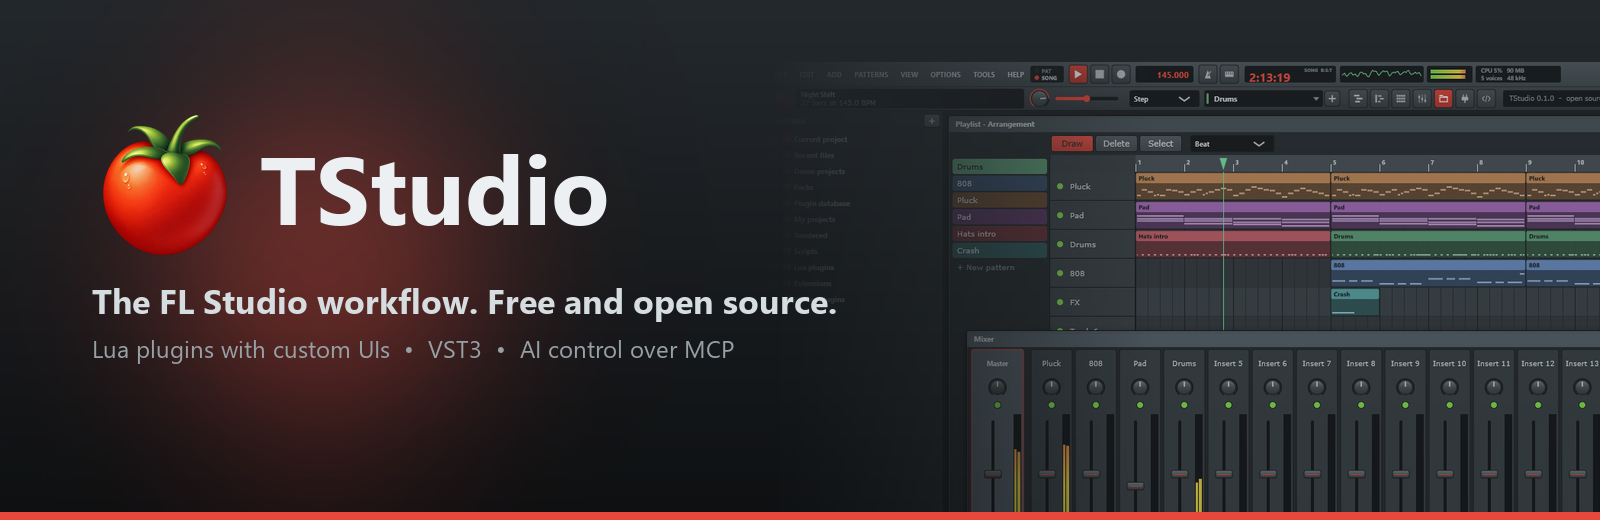
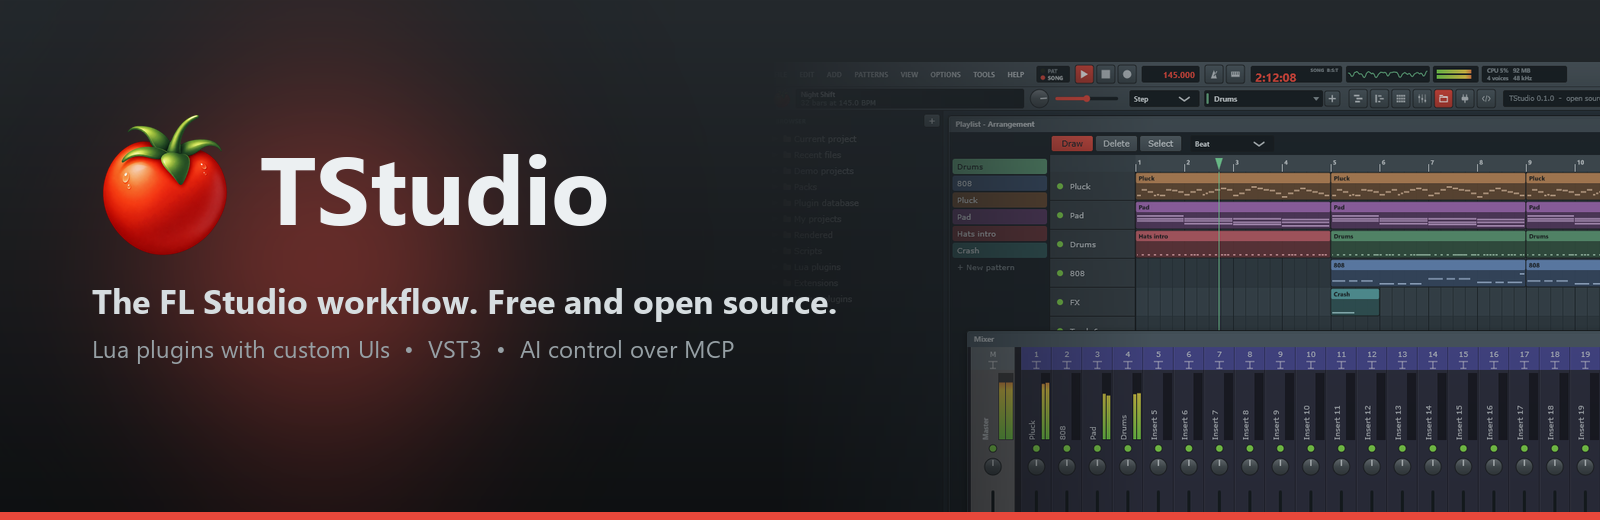
[ui] restyle mixer, channel rack and palette closer to FL Studio (#61)

Changed region(s): [[0.5938, 0.6462, 1.0, 0.9846], [0.625, 0.1231, 1.0, 0.1538], [0.75, 0.3077, 0.7812, 0.3385]]

diff --git a/Source/UI/Mixer.cpp b/Source/UI/Mixer.cpp
@@ -9,8 +9,8 @@ namespace ts
 {
 namespace
 {
-constexpr int stripWidth = 58;
-constexpr int masterWidth = 72;
+constexpr int stripWidth = 40;
+constexpr int masterWidth = 58;
 constexpr int slotsWidth = 230;
 constexpr int slotHeight = 24;
 constexpr double maxGain = 1.9;
@@ -74,42 +74,61 @@ public:
 
     void resized() override
     {
-        auto area = getLocalBounds().reduced(3, 2);
-        nameArea = area.removeFromTop(34);
+        auto area = getLocalBounds();
+        numberArea = area.removeFromTop(30);
+        area.reduce(2, 2);
+        auto top = area.removeFromTop(92);
+        meterArea = top.removeFromRight(index == 0 ? 20 : 12).reduced(0, 2);
+        nameArea = top;
+        ledArea = area.removeFromTop(18);
         pan.setBounds(area.removeFromTop(30).withSizeKeepingCentre(26, 26));
-        ledArea = area.removeFromTop(16);
-        numberArea = area.removeFromBottom(18);
-        routeArea = area.removeFromBottom(20);
-        meterArea = area.removeFromRight(12).reduced(1, 4);
-        fader.setBounds(area);
+        routeArea = area.removeFromBottom(22);
+        fader.setBounds(area.reduced(0, 4));
     }
 
     void paint(juce::Graphics& g) override
     {
         const auto& track = *studio.project.mixer[size_t(index)];
         const auto isSelected = mixer.selected == index;
-        g.setColour(isSelected ? theme::titleActive : (index == 0 ? theme::title : theme::panel));
-        g.fillRoundedRectangle(getLocalBounds().toFloat().reduced(1.0f), 3.0f);
-        g.setColour(isSelected ? theme::accent : theme::outline);
-        g.drawRoundedRectangle(getLocalBounds().toFloat().reduced(1.0f), 3.0f, 1.0f);
+        const auto body = index == 0 ? theme::mixerStrip.withSaturation(0.05f) : theme::mixerStrip;
+        g.setColour(isSelected ? body.brighter(0.35f) : body);
+        g.fillRect(getLocalBounds());
+        const auto header = index == 0 ? theme::title : theme::mixerHeader;
+        g.setColour(isSelected ? header.brighter(0.3f) : header);
+        g.fillRect(numberArea);
+        g.setColour(juce::Colours::black.withAlpha(0.35f));
+        g.drawVerticalLine(getWidth() - 1, 0.0f, float(getHeight()));
+        g.setColour(juce::Colours::white.withAlpha(0.06f));
+        g.drawVerticalLine(0, 0.0f, float(getHeight()));
 
-        g.setColour(theme::text);
-        g.setFont(theme::font(11.5f, index == 0 ? juce::Font::bold : juce::Font::plain));
-        g.drawFittedText(track.name, nameArea, juce::Justification::centred, 2);
+        g.setColour(theme::text.withAlpha(0.9f));
+        g.setFont(theme::font(12.0f));
+        g.drawText(index == 0 ? juce::String("M") : juce::String(index), numberArea.withTrimmedTop(2).removeFromTop(14), juce::Justification::centred);
+        g.setColour(juce::Colours::white.withAlpha(0.55f));
+        const auto icon = numberArea.withTrimmedTop(17).toFloat().withSizeKeepingCentre(12.0f, 9.0f);
+        g.drawLine(icon.getCentreX(), icon.getY(), icon.getCentreX(), icon.getBottom(), 1.4f);
+        g.drawLine(icon.getX(), icon.getY(), icon.getRight(), icon.getY(), 1.4f);
+        g.drawLine(icon.getX() + 2.0f, icon.getBottom(), icon.getRight() - 2.0f, icon.getBottom(), 1.4f);
 
-        const auto light = ledArea.toFloat().withSizeKeepingCentre(9.0f, 9.0f);
+        {
+            juce::Graphics::ScopedSaveState state(g);
+            g.addTransform(juce::AffineTransform::rotation(-juce::MathConstants<float>::halfPi, nameArea.toFloat().getCentreX(), nameArea.toFloat().getCentreY()));
+            const auto rotated = nameArea.toFloat().withSizeKeepingCentre(float(nameArea.getHeight()), float(nameArea.getWidth()));
+            g.setColour(theme::text.withAlpha(0.85f));
+            g.setFont(theme::font(12.0f, index == 0 ? juce::Font::bold : juce::Font::plain));
+            g.drawText(track.name, rotated.reduced(2.0f, 0.0f), juce::Justification::centredLeft, true);
+        }
+
+        const auto light = ledArea.toFloat().withSizeKeepingCentre(10.0f, 10.0f);
         const auto solo = track.solo.load();
         g.setColour(solo ? theme::accent : (track.muted.load() ? theme::ledOff : theme::led));
         g.fillEllipse(light);
         g.setColour(theme::outline);
         g.drawEllipse(light, 1.0f);
 
-        g.setColour(theme::textDim);
-        g.setFont(theme::font(11.0f, juce::Font::bold));
-        g.drawText(index == 0 ? juce::String("M") : juce::String(index), numberArea, juce::Justification::centred);
         paintRoute(g);
 
-        g.setColour(theme::lcd);
+        g.setColour(juce::Colours::black.withAlpha(0.45f));
         g.fillRect(meterArea);
         const auto meter = [&](juce::Rectangle<int> bar, float level)
         {
@@ -316,7 +335,7 @@ public:
 
     void paint(juce::Graphics& g) override
     {
-        g.fillAll(theme::panelDark);
+        g.fillAll(theme::mixerStrip.darker(0.2f));
         g.setColour(theme::outline);
         g.drawVerticalLine(0, 0.0f, float(getHeight()));
         const auto& track = *studio.project.mixer[size_t(mixer.selected)];
@@ -544,7 +563,7 @@ Mixer::~Mixer()
 
 void Mixer::paint(juce::Graphics& g)
 {
-    g.fillAll(theme::workspace.brighter(0.05f));
+    g.fillAll(theme::mixerBack);
 }
 
 void Mixer::resized()
@@ -558,8 +577,8 @@ void Mixer::resized()
     for (int i = 0; i < strips.size(); ++i)
     {
         const auto width = i == 0 ? masterWidth : stripWidth;
-        strips[i]->setBounds(x, 2, width - 2, height - 4);
-        x += width + (i == 0 ? 6 : 0);
+        strips[i]->setBounds(x, 0, width, height);
+        x += width + (i == 0 ? 8 : 0);
     }
 }
 

diff --git a/Source/UI/ChannelRack.cpp b/Source/UI/ChannelRack.cpp
@@ -85,11 +85,11 @@ public:
         else
             paintPreview(g);
 
-        const auto light = selectArea.toFloat().withSizeKeepingCentre(8.0f, 14.0f);
-        g.setColour(selected ? theme::led : theme::ledOff);
-        g.fillRoundedRectangle(light, 2.0f);
-        g.setColour(theme::outline);
-        g.drawRoundedRectangle(light, 2.0f, 1.0f);
+        const auto light = selectArea.toFloat().withSizeKeepingCentre(5.0f, float(getHeight()) - 8.0f);
+        g.setColour(selected ? channel().colour.brighter(0.6f).withSaturation(0.45f) : theme::rackBox.darker(0.35f));
+        g.fillRoundedRectangle(light, 1.5f);
+        g.setColour(theme::outline.withAlpha(0.6f));
+        g.drawRoundedRectangle(light, 1.5f, 1.0f);
     }
 
     void mouseDown(const juce::MouseEvent& e) override
@@ -252,25 +252,28 @@ private:
     void paintInsert(juce::Graphics& g) const
     {
         const auto insert = channel().insert.load();
-        g.setColour(theme::lcd);
-        g.fillRoundedRectangle(insertArea.toFloat(), 2.0f);
-        g.setColour(insert == 0 ? theme::textDim : theme::accent);
-        g.setFont(theme::font(12.0f, juce::Font::bold));
+        g.setColour(theme::rackBox);
+        g.fillRoundedRectangle(insertArea.toFloat(), 3.0f);
+        g.setColour(theme::outline.withAlpha(0.7f));
+        g.drawRoundedRectangle(insertArea.toFloat().reduced(0.5f), 3.0f, 1.0f);
+        g.setColour(insert == 0 ? theme::textDim : theme::text.withAlpha(0.85f));
+        g.setFont(theme::font(14.0f));
         g.drawText(insert == 0 ? juce::String("--") : juce::String(insert), insertArea, juce::Justification::centred);
     }
 
     void paintName(juce::Graphics& g, bool selected) const
     {
-        auto box = nameArea.toFloat();
-        g.setGradientFill(juce::ColourGradient(theme::button.brighter(0.08f), box.getTopLeft(), theme::button.darker(0.1f), box.getBottomLeft(), false));
+        const auto box = nameArea.toFloat();
+        const auto fill = channel().colour.withSaturation(juce::jmin(channel().colour.getSaturation(), 0.42f)).withBrightness(0.5f).interpolatedWith(theme::button, 0.3f);
+        g.setGradientFill(juce::ColourGradient(fill.brighter(0.12f), box.getTopLeft(), fill.darker(0.18f), box.getBottomLeft(), false));
         g.fillRoundedRectangle(box, 3.0f);
-        g.setColour(channel().colour);
-        g.fillRect(box.removeFromLeft(4.0f).reduced(0.0f, 2.0f).translated(2.0f, 0.0f));
-        g.setColour(selected ? theme::accent : theme::outline);
-        g.drawRoundedRectangle(nameArea.toFloat().reduced(0.5f), 3.0f, 1.0f);
+        g.setColour(juce::Colours::white.withAlpha(0.12f));
+        g.drawHorizontalLine(int(box.getY()) + 1, box.getX() + 3.0f, box.getRight() - 3.0f);
+        g.setColour(selected ? theme::text : theme::outline);
+        g.drawRoundedRectangle(box.reduced(0.5f), 3.0f, selected ? 1.4f : 1.0f);
         g.setColour(channel().muted.load() ? theme::textDim : theme::text);
         g.setFont(theme::font(13.0f));
-        g.drawText(channel().name, nameArea.reduced(10, 0), juce::Justification::centredLeft, true);
+        g.drawText(channel().name, nameArea.reduced(8, 0), juce::Justification::centred, true);
     }
 
     void paintStep(juce::Graphics& g, int step) const
@@ -278,10 +281,17 @@ private:
         const auto box = stepBounds(step).toFloat();
         const auto on = isStepOn(step);
         const auto base = on ? theme::stepOn : ((step / 4) % 2 == 0 ? theme::stepA : theme::stepB);
-        g.setGradientFill(juce::ColourGradient(base.brighter(0.1f), box.getTopLeft(), base.darker(0.15f), box.getBottomLeft(), false));
-        g.fillRoundedRectangle(box, 2.0f);
+        g.setColour(theme::outline.withAlpha(0.55f));
+        g.fillRoundedRectangle(box.translated(0.0f, 1.0f), 3.0f);
+        g.setGradientFill(juce::ColourGradient(base.brighter(0.14f), box.getTopLeft(), base.darker(0.12f), box.getBottomLeft(), false));
+        g.fillRoundedRectangle(box, 3.0f);
+        const auto notch = box.withSizeKeepingCentre(box.getWidth() * 0.42f, 2.0f).withY(box.getY() + 4.0f);
+        g.setColour(base.darker(on ? 0.35f : 0.6f));
+        g.fillRect(notch);
+        g.setColour(base.brighter(0.35f).withAlpha(0.5f));
+        g.fillRect(notch.translated(0.0f, 2.0f).withHeight(1.0f));
         g.setColour(step == playhead ? theme::accent : theme::outline);
-        g.drawRoundedRectangle(box.reduced(0.5f), 2.0f, step == playhead ? 1.6f : 1.0f);
+        g.drawRoundedRectangle(box.reduced(0.5f), 3.0f, step == playhead ? 1.6f : 1.0f);
     }
 
     void paintPreview(juce::Graphics& g) const
@@ -454,7 +464,7 @@ int ChannelRack::preferredHeight() const
 
 void ChannelRack::paint(juce::Graphics& g)
 {
-    g.fillAll(theme::panel);
+    g.fillAll(theme::rack);
     auto header = getLocalBounds().removeFromTop(headerHeight).reduced(8, 0);
     header.removeFromLeft(30);
     g.setColour(theme::textDim);

diff --git a/Source/UI/LookAndFeel.cpp b/Source/UI/LookAndFeel.cpp
@@ -51,12 +51,15 @@ void LookAndFeel::drawRotarySlider(juce::Graphics& g, int x, int y, int width, i
     const auto origin = bipolar ? (startAngle + endAngle) * 0.5f : startAngle;
     const juce::PathStrokeType stroke(ring, juce::PathStrokeType::curved, juce::PathStrokeType::rounded);
 
-    juce::Path track;
-    track.addCentredArc(centre.x, centre.y, arcRadius, arcRadius, 0.0f, startAngle, endAngle, true);
-    g.setColour(theme::lcd);
-    g.strokePath(track, stroke);
+    if (!compact)
+    {
+        juce::Path track;
+        track.addCentredArc(centre.x, centre.y, arcRadius, arcRadius, 0.0f, startAngle, endAngle, true);
+        g.setColour(theme::lcd);
+        g.strokePath(track, stroke);
+    }
 
-    if (std::abs(angle - origin) > 0.01f)
+    if (!compact && std::abs(angle - origin) > 0.01f)
     {
         juce::Path value;
         value.addCentredArc(centre.x, centre.y, arcRadius, arcRadius, 0.0f, juce::jmin(origin, angle), juce::jmax(origin, angle), true);
@@ -69,7 +72,7 @@ void LookAndFeel::drawRotarySlider(juce::Graphics& g, int x, int y, int width, i
         g.strokePath(value, stroke);
     }
 
-    const auto bodyRadius = radius - ring - (compact ? 1.0f : radius * 0.07f);
+    const auto bodyRadius = compact ? radius - 1.0f : radius - ring - radius * 0.07f;
     const auto body = juce::Rectangle<float>(bodyRadius * 2.0f, bodyRadius * 2.0f).withCentre(centre);
     if (!compact)
     {
@@ -103,13 +106,18 @@ void LookAndFeel::drawLinearSlider(juce::Graphics& g, int x, int y, int width, i
     const auto track = bounds.withSizeKeepingCentre(4.0f, bounds.getHeight());
     g.setColour(theme::lcd);
     g.fillRoundedRectangle(track, 2.0f);
-    const auto handle = juce::Rectangle<float>(juce::jmin(bounds.getWidth(), 22.0f), 10.0f).withCentre({ bounds.getCentreX(), position });
-    g.setGradientFill(juce::ColourGradient(theme::knobTop.brighter(0.2f), handle.getTopLeft(), theme::knobBottom, handle.getBottomLeft(), false));
-    g.fillRoundedRectangle(handle, 2.0f);
+    const auto handle = juce::Rectangle<float>(juce::jmin(bounds.getWidth(), 20.0f), 16.0f).withCentre({ bounds.getCentreX(), position });
+    g.setColour(juce::Colours::black.withAlpha(0.4f));
+    g.fillRoundedRectangle(handle.translated(0.0f, 1.5f), 2.5f);
+    juce::ColourGradient metal(juce::Colour(0xffd3d9dc), handle.getTopLeft(), juce::Colour(0xff737c80), handle.getBottomLeft(), false);
+    metal.addColour(0.45, juce::Colour(0xffaeb6ba));
+    metal.addColour(0.55, juce::Colour(0xff8c9599));
+    g.setGradientFill(metal);
+    g.fillRoundedRectangle(handle, 2.5f);
     g.setColour(theme::outline);
-    g.drawRoundedRectangle(handle, 2.0f, 1.0f);
-    g.setColour(theme::accent);
-    g.drawHorizontalLine(juce::roundToInt(handle.getCentreY()), handle.getX() + 3.0f, handle.getRight() - 3.0f);
+    g.drawRoundedRectangle(handle, 2.5f, 1.0f);
+    g.setColour(juce::Colour(0xff2b3236));
+    g.drawHorizontalLine(juce::roundToInt(handle.getCentreY()), handle.getX() + 2.0f, handle.getRight() - 2.0f);
 }
 
 void LookAndFeel::drawToggleButton(juce::Graphics& g, juce::ToggleButton& button, bool highlighted, bool)

diff --git a/Source/UI/Theme.h b/Source/UI/Theme.h
@@ -4,30 +4,35 @@
 
 namespace ts::theme
 {
-inline const juce::Colour window { 0xff31383c };
-inline const juce::Colour workspace { 0xff1f2427 };
-inline const juce::Colour panel { 0xff3a4246 };
-inline const juce::Colour panelDark { 0xff272d30 };
-inline const juce::Colour title { 0xff485257 };
-inline const juce::Colour titleActive { 0xff56626a };
-inline const juce::Colour button { 0xff4a5357 };
+inline const juce::Colour window { 0xff3a454b };
+inline const juce::Colour workspace { 0xff27323a };
+inline const juce::Colour panel { 0xff3b474e };
+inline const juce::Colour panelDark { 0xff1b2329 };
+inline const juce::Colour title { 0xff434f56 };
+inline const juce::Colour titleActive { 0xff51606a };
+inline const juce::Colour button { 0xff4a575e };
 inline const juce::Colour outline { 0xff1a1e20 };
 inline const juce::Colour text { 0xffd6dde0 };
 inline const juce::Colour textDim { 0xff7f8b90 };
 inline const juce::Colour accent { 0xffe8483b };
 inline const juce::Colour led { 0xff86e04f };
 inline const juce::Colour ledOff { 0xff2f3a2b };
-inline const juce::Colour stepA { 0xff545d62 };
-inline const juce::Colour stepB { 0xff5e474b };
-inline const juce::Colour stepOn { 0xffe4eaec };
+inline const juce::Colour stepA { 0xff4c5458 };
+inline const juce::Colour stepB { 0xff6a5250 };
+inline const juce::Colour stepOn { 0xffdfe6e8 };
+inline const juce::Colour rack { 0xff5a6368 };
+inline const juce::Colour rackBox { 0xff4a5357 };
+inline const juce::Colour mixerBack { 0xff22232c };
+inline const juce::Colour mixerStrip { 0xff2e3040 };
+inline const juce::Colour mixerHeader { 0xff4a4b96 };
 inline const juce::Colour knobTop { 0xff5d676c };
 inline const juce::Colour knobBottom { 0xff353c40 };
-inline const juce::Colour lcd { 0xff161a1c };
-inline const juce::Colour rowWhite { 0xff3d454a };
-inline const juce::Colour rowBlack { 0xff343b3f };
-inline const juce::Colour gridLine { 0xff30373b };
-inline const juce::Colour beatLine { 0xff2a3034 };
-inline const juce::Colour barLine { 0xff1d2124 };
+inline const juce::Colour lcd { 0xff151c20 };
+inline const juce::Colour rowWhite { 0xff3a474f };
+inline const juce::Colour rowBlack { 0xff323e45 };
+inline const juce::Colour gridLine { 0xff2d3940 };
+inline const juce::Colour beatLine { 0xff283339 };
+inline const juce::Colour barLine { 0xff1b2328 };
 inline const juce::Colour noteText { 0xff15191b };
 inline const juce::Colour selection { 0xffffc857 };
 inline const juce::Colour playhead { 0xff7be0a0 };

diff --git a/Source/UI/Browser.cpp b/Source/UI/Browser.cpp
@@ -47,13 +47,16 @@ public:
             g.fillAll(theme::title);
         auto area = juce::Rectangle<int>(0, 0, width, height);
         const auto icon = area.removeFromLeft(18).toFloat().withSizeKeepingCentre(10.0f, 9.0f);
-        g.setColour(kind == Kind::folder ? theme::accent.withAlpha(0.8f) : (kind == Kind::plugin ? theme::led.withAlpha(0.7f) : theme::textDim));
+        g.setColour(kind == Kind::folder ? juce::Colour(0xff958f88) : (kind == Kind::plugin ? theme::led.withAlpha(0.7f) : theme::textDim));
         if (kind == Kind::folder)
-            g.fillRoundedRectangle(icon, 1.5f);
+        {
+            g.fillRoundedRectangle(icon.withWidth(icon.getWidth() * 0.45f).withHeight(3.0f), 1.0f);
+            g.fillRoundedRectangle(icon.withTrimmedTop(2.0f), 1.0f);
+        }
         else if (kind != Kind::info)
             g.fillEllipse(icon.withSizeKeepingCentre(6.0f, 6.0f));
-        g.setColour(kind == Kind::folder ? theme::text : (kind == Kind::info ? theme::textDim : theme::text.withAlpha(0.85f)));
-        g.setFont(theme::font(13.0f, kind == Kind::folder && getParentItem() != nullptr && getParentItem()->getParentItem() == nullptr ? juce::Font::bold : juce::Font::plain));
+        g.setColour(kind == Kind::info ? theme::textDim : theme::text.withAlpha(0.78f));
+        g.setFont(theme::font(13.0f));
         g.drawText(label, area, juce::Justification::centredLeft, true);
     }
 
